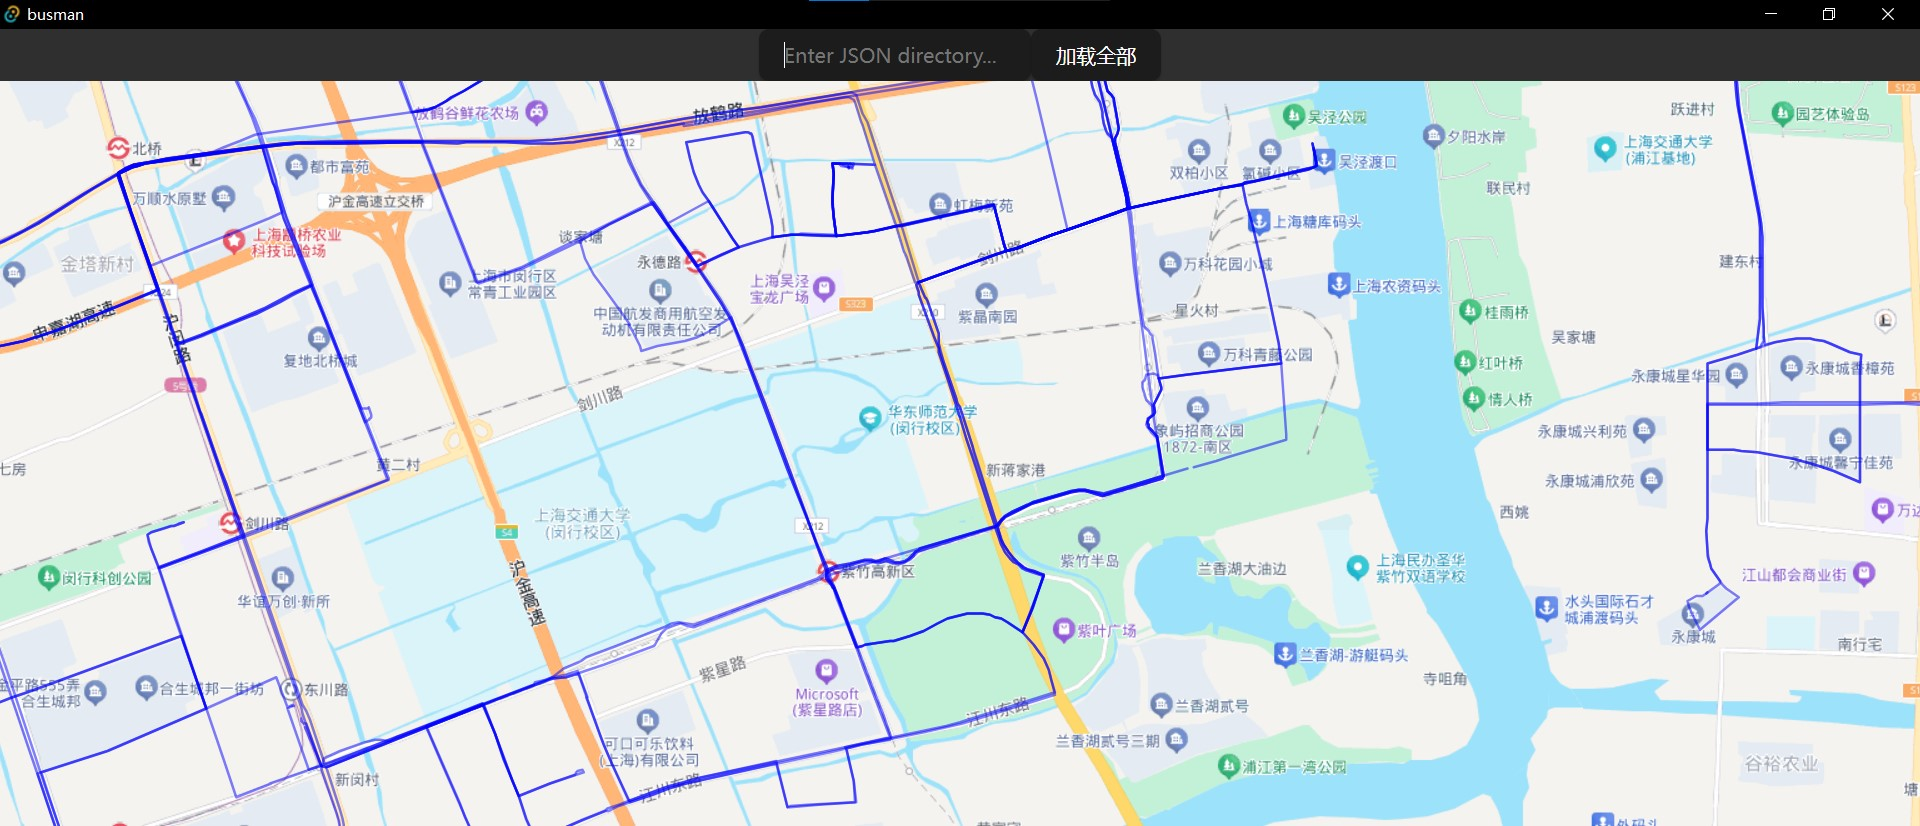
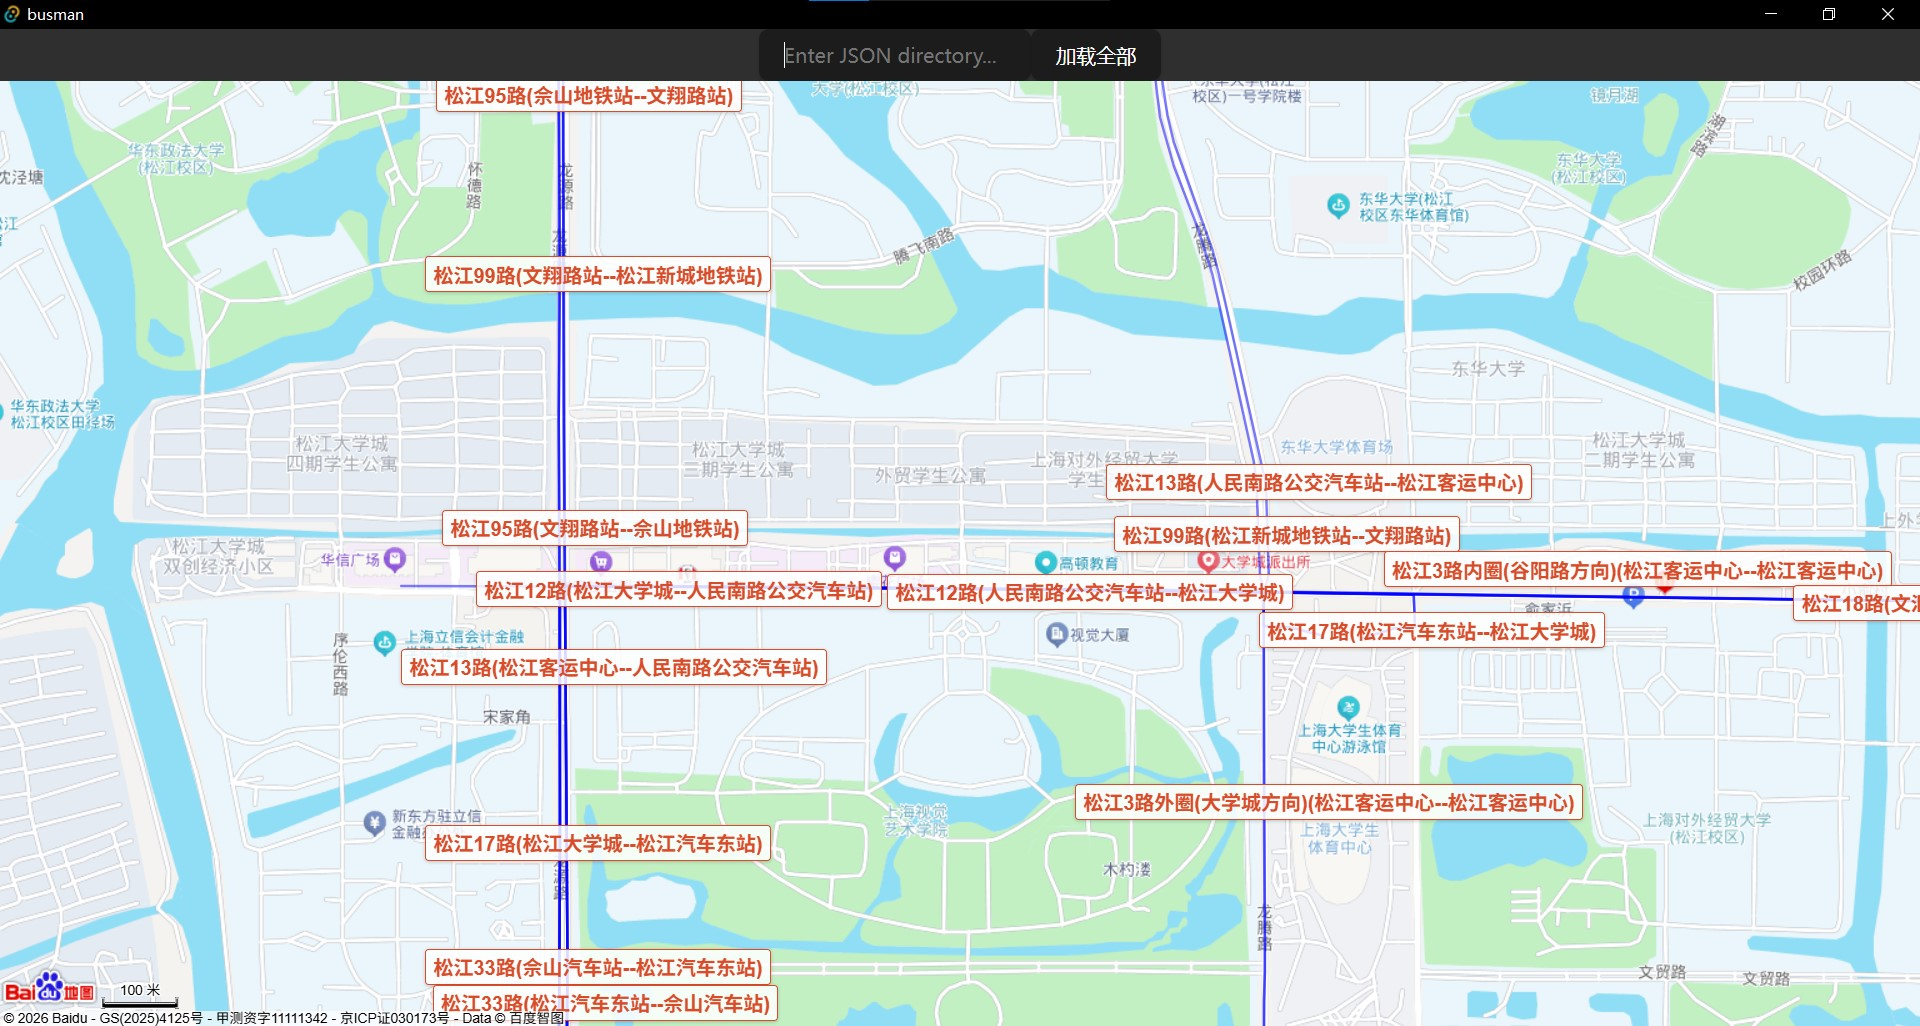
minor: calc label position based on its center

diff --git a/BusMan/src/main.ts b/BusMan/src/main.ts
@@ -211,10 +211,13 @@ class RouteLabelManager {
 
       for (const cand of plan.candidates) {
         for (const offY of offsets) {
-          const l = cand.x - 6;
-          const r = cand.x + labelWidth;
-          const t = cand.y + offY - labelHeight / 2;
-          const b = cand.y + offY + labelHeight / 2;
+          // Test rectangle centered on the candidate point
+          const halfW = labelWidth / 2;
+          const halfH = labelHeight / 2;
+          const l = cand.x - halfW;
+          const r = cand.x + halfW;
+          const t = cand.y + offY - halfH;
+          const b = cand.y + offY + halfH;
 
           let overlapCount = 0;
           for (const occ of occupied) {
@@ -240,15 +243,21 @@ class RouteLabelManager {
 
       if (bestCand) {
         entry.label.setPosition(bestCand.point);
-        entry.label.setOffset(new BMap.Size(0, bestOffsetY));
+        // Center the label on the candidate point (plus vertical offset).
+        // The full label width/height is estimated from text length + padding + border.
+        entry.label.setOffset(new BMap.Size(-labelWidth / 2, bestOffsetY - labelHeight / 2));
         entry.label.setStyle({ fontSize: clampedSize + "px" });
         entry.label.show();
 
-        const l = bestCand.x - 6;
-        const r = bestCand.x + labelWidth;
-        const t = bestCand.y + bestOffsetY - labelHeight / 2;
-        const b = bestCand.y + bestOffsetY + labelHeight / 2;
-        occupied.push({ l, r, t, b });
+        // Record the centered pixel bounding box for subsequent overlap detection.
+        const halfW = labelWidth / 2;
+        const halfH = labelHeight / 2;
+        occupied.push({
+          l: bestCand.x - halfW,
+          r: bestCand.x + halfW,
+          t: bestCand.y + bestOffsetY - halfH,
+          b: bestCand.y + bestOffsetY + halfH,
+        });
       }
     }
   }
